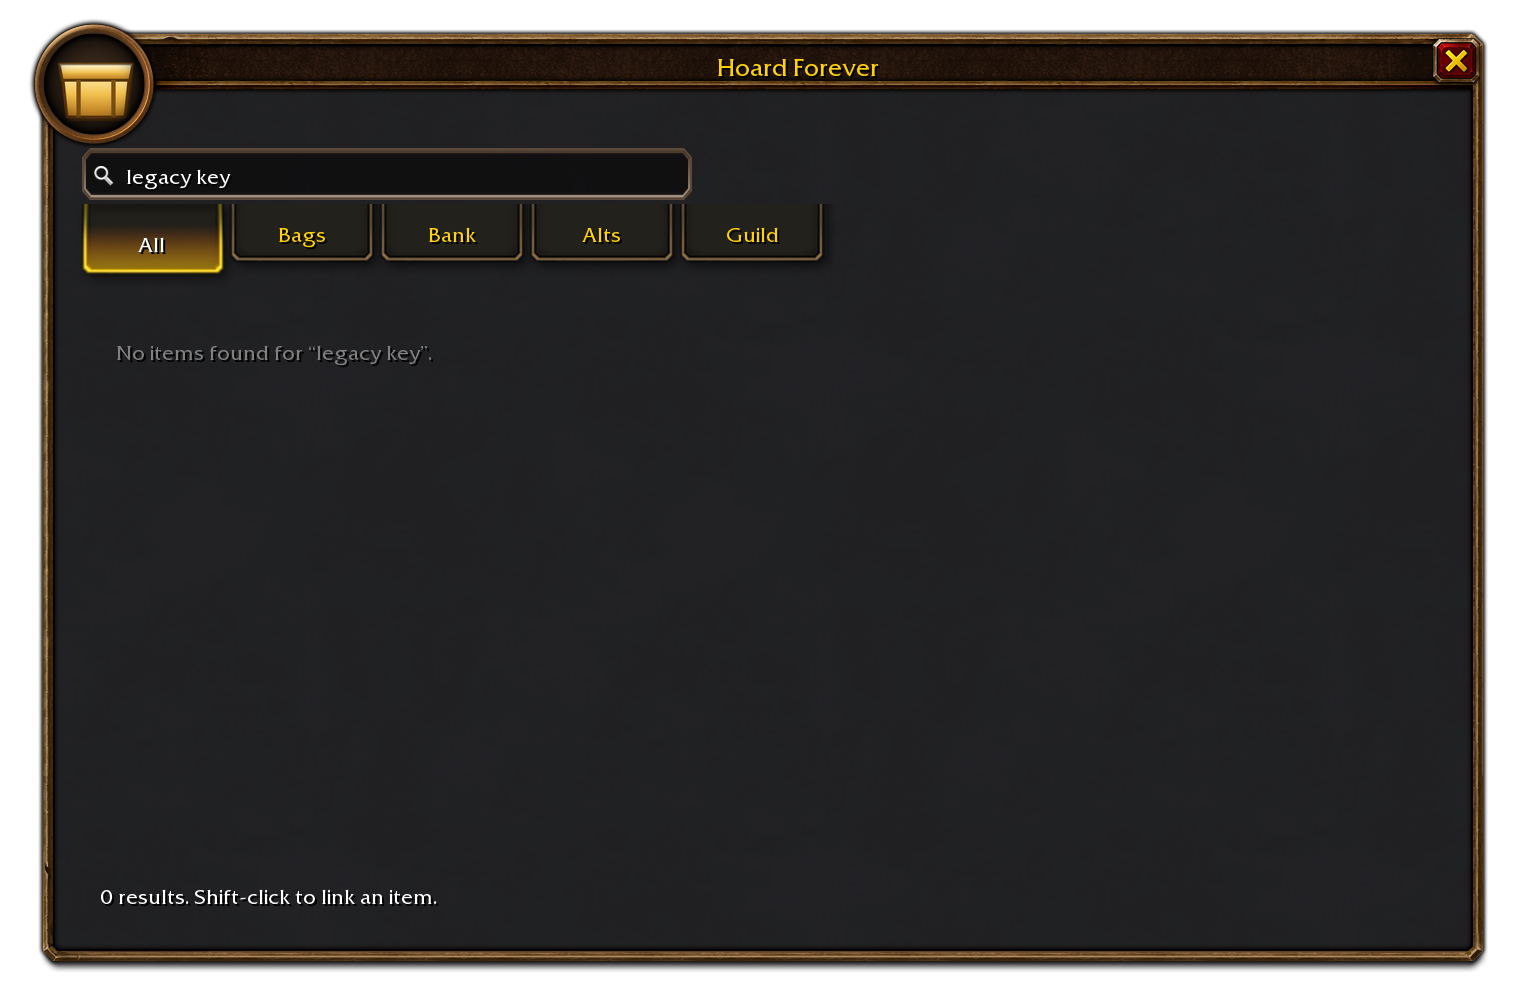
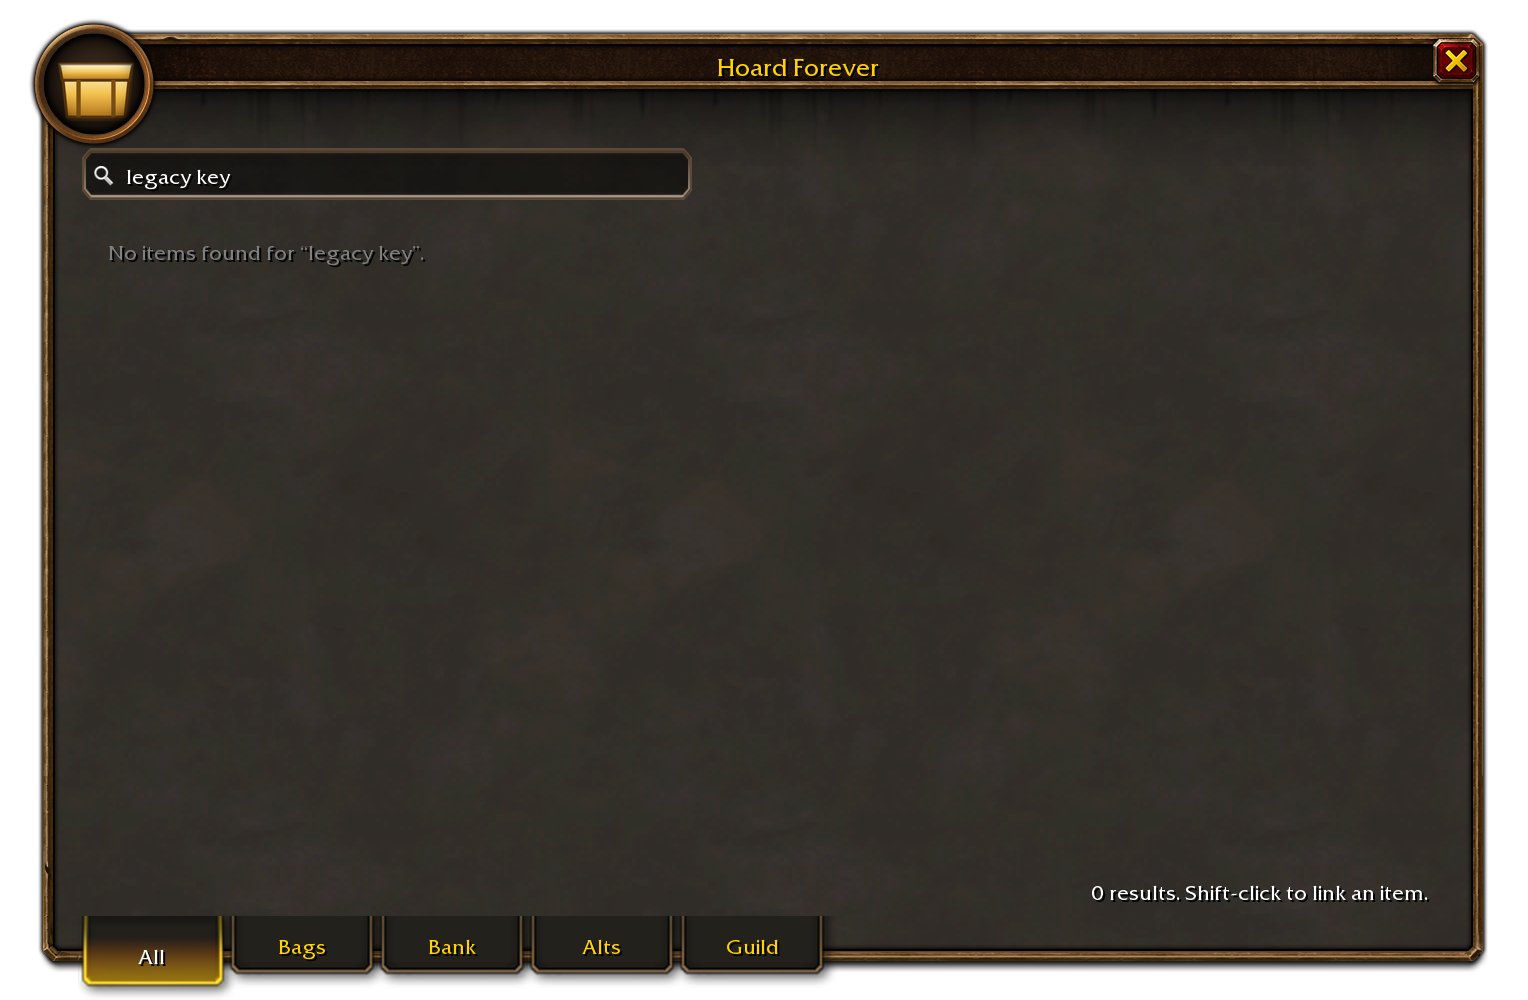
fix: preserve bank snapshots and align Hoard UI (#34)
* fix: preserve bank snapshots and align hoard UI

Keep cached bank records when a bag-only scan runs after the bank closes, and
track bag and bank ages independently so stale data remains honest. Refresh the
window with the native portrait, search box and bottom panel tabs, compact the
result rows, localise visible status and source labels, and update the mock to
the pinned Forever build with honest cloth examples.

* fix: correct shared guidance pin

Point the contributor guide at the verified merged Forever Core commit and
use the repository's colon style for standards pointers.

* fix: regenerate native hoard screenshot evidence

Replace the conflicted screenshot manifest with fresh records. Render the
PortraitFrameTemplate rock and streak layers and align row coordinates with
the runtime anchors. Keep localized search status messages as whole sentences.

diff --git a/tools/screenshots.py b/tools/screenshots.py
@@ -16,7 +16,7 @@ sys.path.insert(0, str(WOWMOCK))
 
 from wowmock import ARIALN, FONTS, WHITE, Font, Ui, panel_tabs, portrait_frame_art, search_box, tiled  # noqa: E402
 
-BUILD = "1.60.1.70532"
+BUILD = "1.60.1.70124"
 WIDTH, HEIGHT = 764, 500
 FRAME = (22, 20, 720, 460)
 ITEM_IDS = {"Linen Cloth": 2589, "Copper Ore": 2770, "Hearthstone": 6948, "Wool Cloth": 2592}
@@ -27,35 +27,36 @@ QUALITY = {1: (0.9, 0.9, 0.9, 1), 2: (0.12, 0.72, 0.16, 1), 3: (0.14, 0.57, 0.94
 def scene(ui, query, tab, rows, empty=False):
     canvas = ui.canvas(WIDTH, HEIGHT)
     x, y, w, h = FRAME
+    # PortraitFrameTexturedBaseTemplate: tiled Bg, then its 43-unit TopTileStreaks layer.
     rock = ui.texture("interface/framegeneral/ui-background-rock.blp")
-    tiled(canvas, rock, x + 5, y + 23, w - 10, h - 28, rock.width / ui.scale, rock.height / ui.scale)
-    canvas.fill(x + 5, y + 23, w - 10, h - 28, (0.10, 0.11, 0.13, 0.74))
+    tiled(canvas, rock, x + 2, y + 21, w - 4, h - 23, rock.width / ui.scale, rock.height / ui.scale)
+    streaks = ui.atlas("_UI-Frame-TopTileStreaks")
+    tiled(canvas, streaks.image, x + 6, y + 21, w - 8, 43, 256, 43)
     portrait = Image.open(ROOT / "media/icon-400.png").convert("RGBA")
     portrait_frame_art(canvas, x, y, w, h, portrait, "Hoard Forever")
 
     search_box(canvas, x + 24, y + 54, 300, 26, "")
     canvas.text(x + 41, y + 57, query, FONTS["GameFontHighlightSmall"], box_height=20)
-    panel_tabs(canvas, x + 18, y + 82, ["All", "Bags", "Bank", "Alts", "Guild"], tab)
+    panel_tabs(canvas, x + 18, y + h - 22, ["All", "Bags", "Bank", "Alts", "Guild"], tab)
 
-    list_x, list_y, list_w = x + 28, y + 142, w - 78
+    list_x, list_y, list_w = x + 24, y + 92, w - 74
     if empty:
-        canvas.text(list_x + 8, list_y + 8, f"No items found for “{query}”.", FONTS["GameFontDisableSmall"])
+        empty = "No items found." if not query else f"No items found for “{query}”."
+        canvas.text(list_x + 8, list_y + 8, empty, FONTS["GameFontDisableSmall"])
     else:
         for index, (item_name, total, sources) in enumerate(rows):
             item = ui.item(ITEM_IDS[item_name])
-            row_y = list_y + index * 52
-            if index:
-                canvas.fill(list_x, row_y, list_w, 1, (0.32, 0.32, 0.30, 0.48))
-            canvas.draw(ui.texture(item.icon), list_x + 6, row_y + 7, 36, 36)
+            row_y = list_y + index * 50
+            canvas.draw(ui.texture(item.icon), list_x + 6, row_y + 4.5, 37, 37)
             color = QUALITY.get(item.quality, FONTS["GameFontHighlight"].color)
-            canvas.text(list_x + 50, row_y + 8, item.name, FONTS["GameFontHighlight"], color)
+            canvas.text(list_x + 51, row_y + 8, item.name, FONTS["GameFontHighlight"], color)
             canvas.text(list_x + list_w - 42, row_y + 8, str(total), COUNT_FONT, justify="RIGHT", width=34)
-            canvas.text(list_x + 50, row_y + 29, sources, FONTS["GameFontHighlightSmall"])
+            canvas.text(list_x + 51, row_y + 29, sources, FONTS["GameFontHighlightSmall"])
 
     status = (
         "0 results. Shift-click to link an item." if empty else f"{len(rows)} results. Shift-click to link an item."
     )
-    canvas.text(x + 28, y + h - 38, status, FONTS["GameFontHighlightSmall"])
+    canvas.text(x + w - 388, y + h - 40, status, FONTS["GameFontHighlightSmall"], justify="RIGHT", width=360)
     return canvas
 
 
@@ -71,7 +72,6 @@ def main():
             [
                 ("Linen Cloth", 38, "Bags 12  ·  Bank 26"),
                 ("Wool Cloth", 18, "Bags 6  ·  Bank 12"),
-                ("Copper Ore", 14, "Bags 8  ·  Bank 6"),
             ],
         ),
         "alts.png": scene(

diff --git a/AGENTS.md b/AGENTS.md
@@ -52,7 +52,8 @@ Never: craft, mail, sell or use an item, plan a route (`shortest-path-forever`),
 
 ## Standards
 
-- `wow-forever-addon` — https://github.com/cjber/forever-core/tree/3fd1b7fe109e709c4952bb04622e94d05636585e/.agents/skills/wow-forever-addon (shared UI, icon, docs, CI and release requirements)
+- `wow-forever-addon`: https://github.com/cjber/forever-core/tree/af94fd89610c9128bc11ec07354bd9dabafb5dd0/.agents/skills/wow-forever-addon (shared UI, icon, docs, CI and release requirements)
+- `wow-retail-ui-style`: https://github.com/cjber/forever-core/tree/af94fd89610c9128bc11ec07354bd9dabafb5dd0/.agents/skills/wow-retail-ui-style (native host integration, compact layout rhythm and approved asset blacklist)
 
 ## Rules
 
